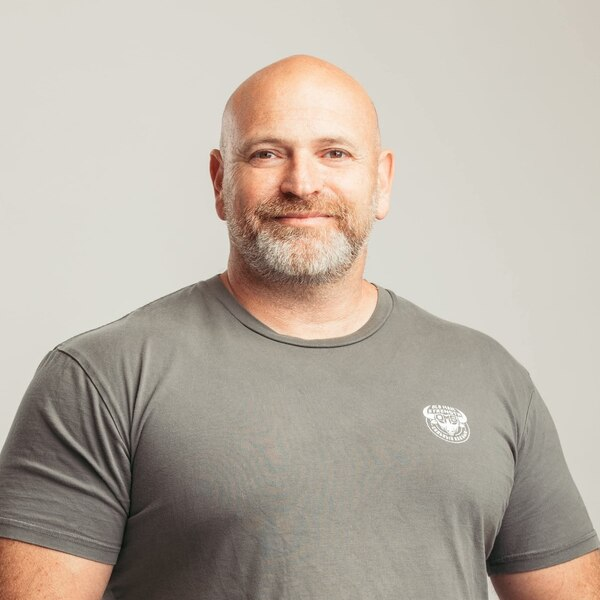
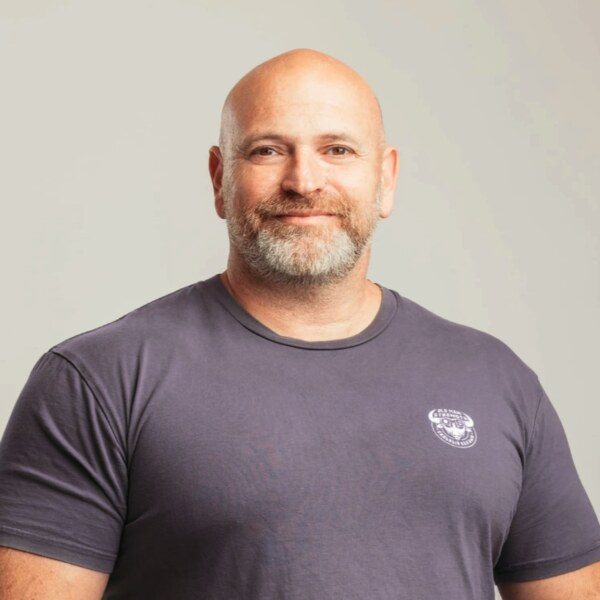
About: new portrait (ilan7b) - warmer, calmer; also now the JSON-LD profile image
Trimmed the baked-in white border, 600px square jpg+webp, cache-busted.

diff --git a/index.html b/index.html
@@ -47,7 +47,7 @@
                 "givenName": "Ilan",
                 "familyName": "Lenzner",
                 "url": "https://ilans.net/",
-                "image": "https://ilans.net/images/portrait.jpg",
+                "image": "https://ilans.net/images/portrait-new.jpg",
                 "jobTitle": "Creative Technologist & Design Engineer",
                 "description": "Creative Technologist and Design Engineer based in Tel Aviv who designs and ships AI-powered products end-to-end - from autonomous ad pipelines to AI tools used daily by 100+ creatives.",
                 "email": "ilan@ilans.net",
@@ -352,7 +352,7 @@
         </div>
         <div class="about-content">
             <div class="about-photo-grid reveal">
-                <picture><source srcset="images/portrait-new.webp" type="image/webp"><img src="images/portrait-new.jpg" alt="Ilan Lenzner" class="about-portrait" loading="lazy" decoding="async"></picture>
+                <picture><source srcset="images/portrait-new.webp?v=2" type="image/webp"><img src="images/portrait-new.jpg?v=2" alt="Ilan Lenzner" class="about-portrait" loading="lazy" decoding="async"></picture>
                 <div class="about-bio">
                     <p>From <em>3D animation</em> to <em>interactive ads</em> to <em>AI product engineering</em>.</p>
                     <p>Today I architect <strong>autonomous AI pipelines</strong> that generate, animate, and ship creative assets end-to-end, turning workflows that once took <strong>days into minutes</strong>.</p>
